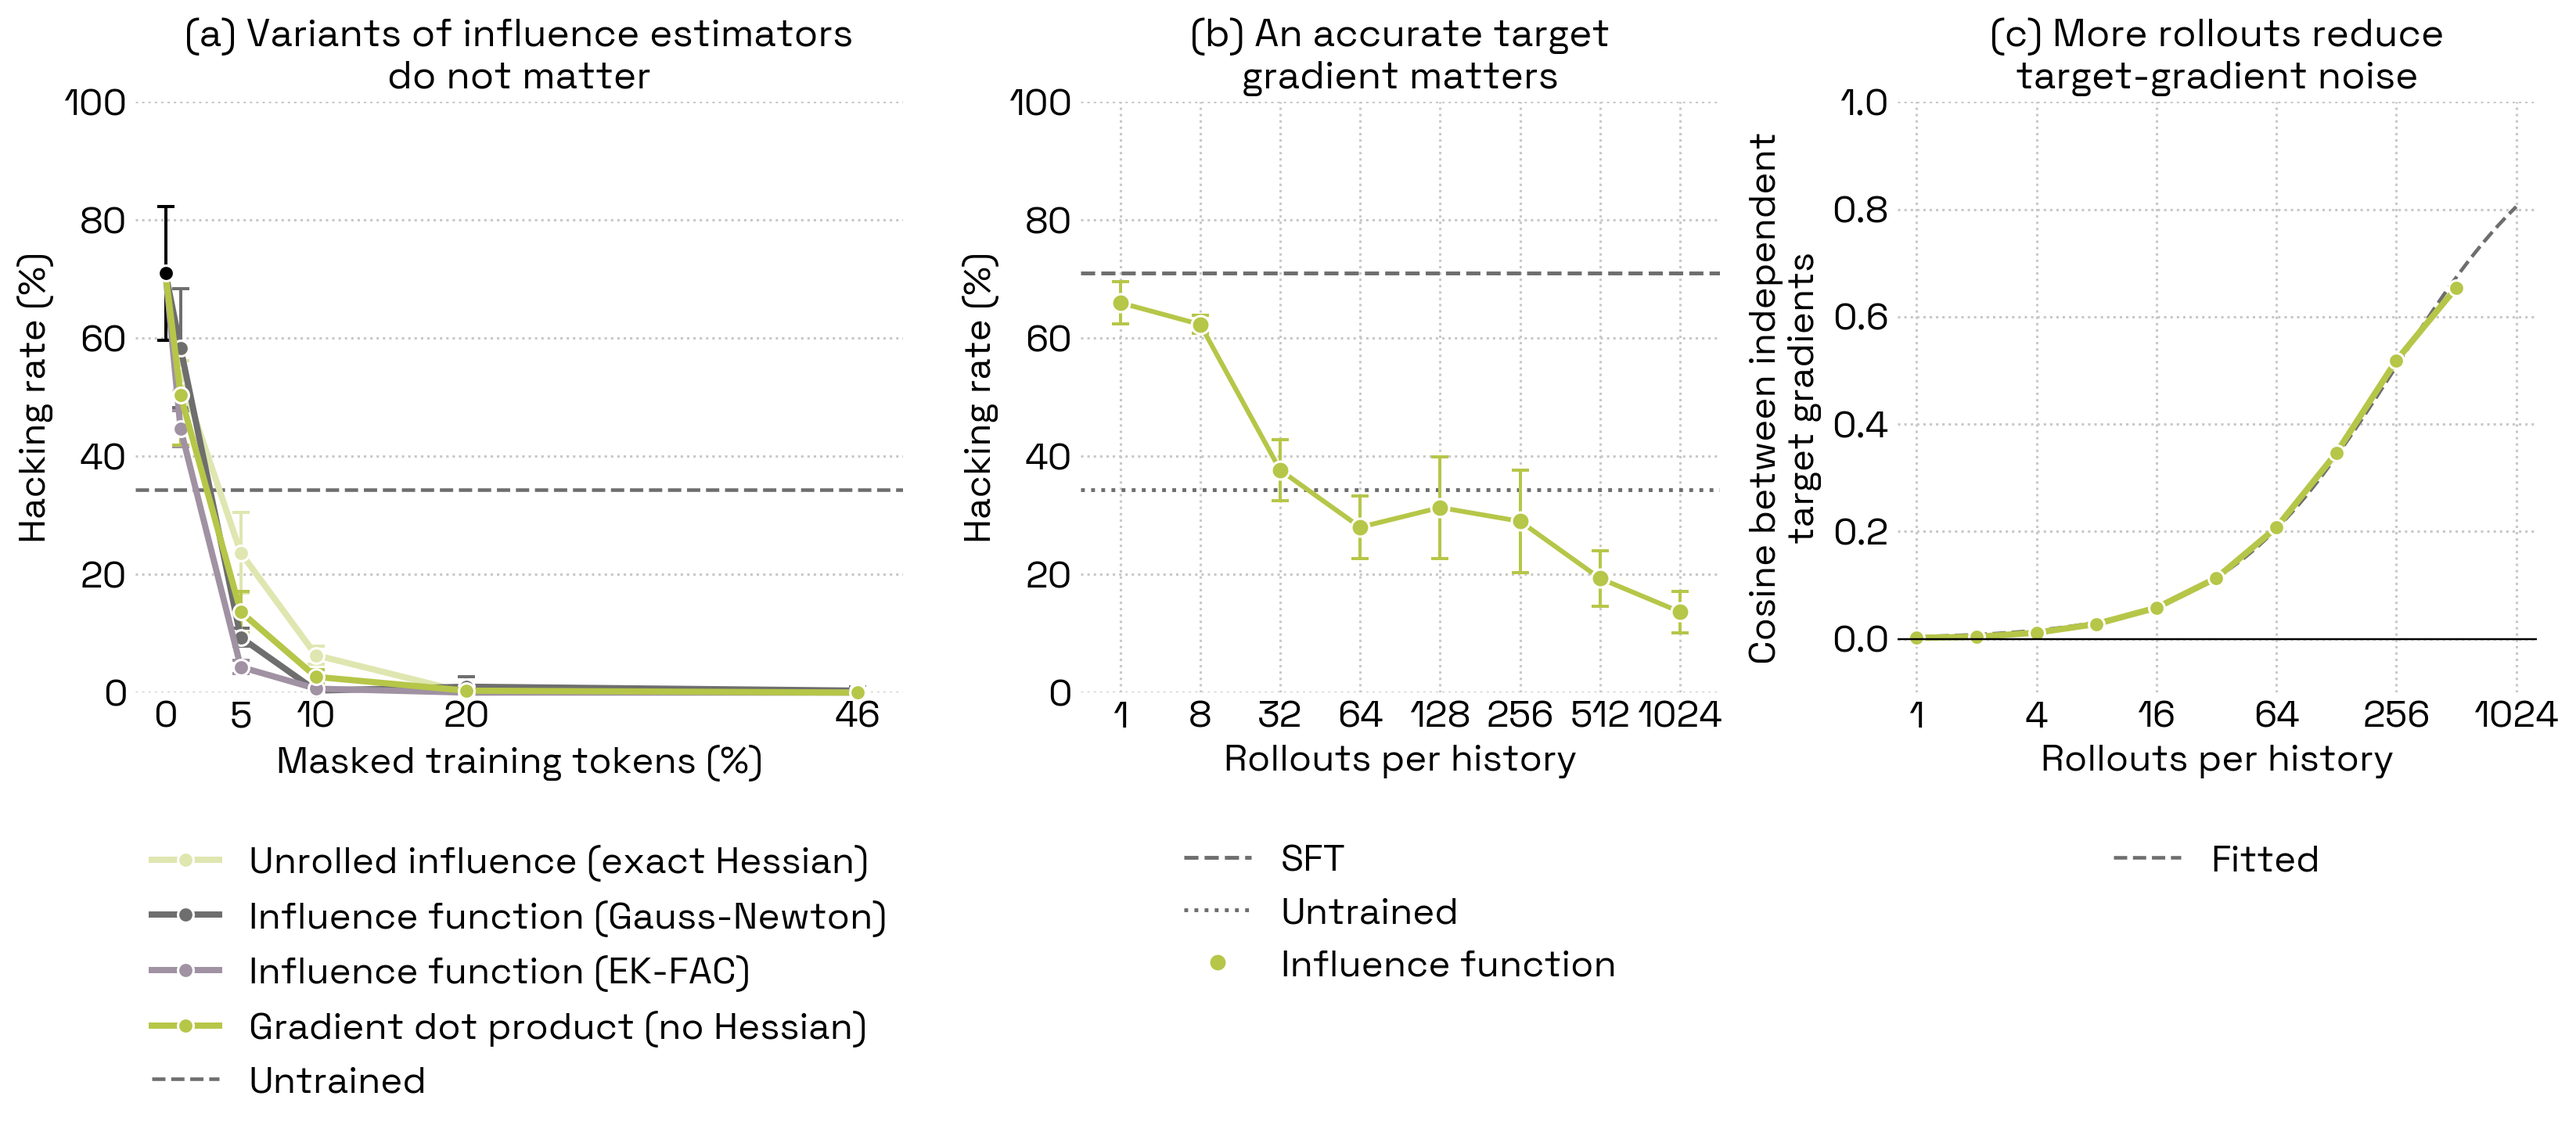
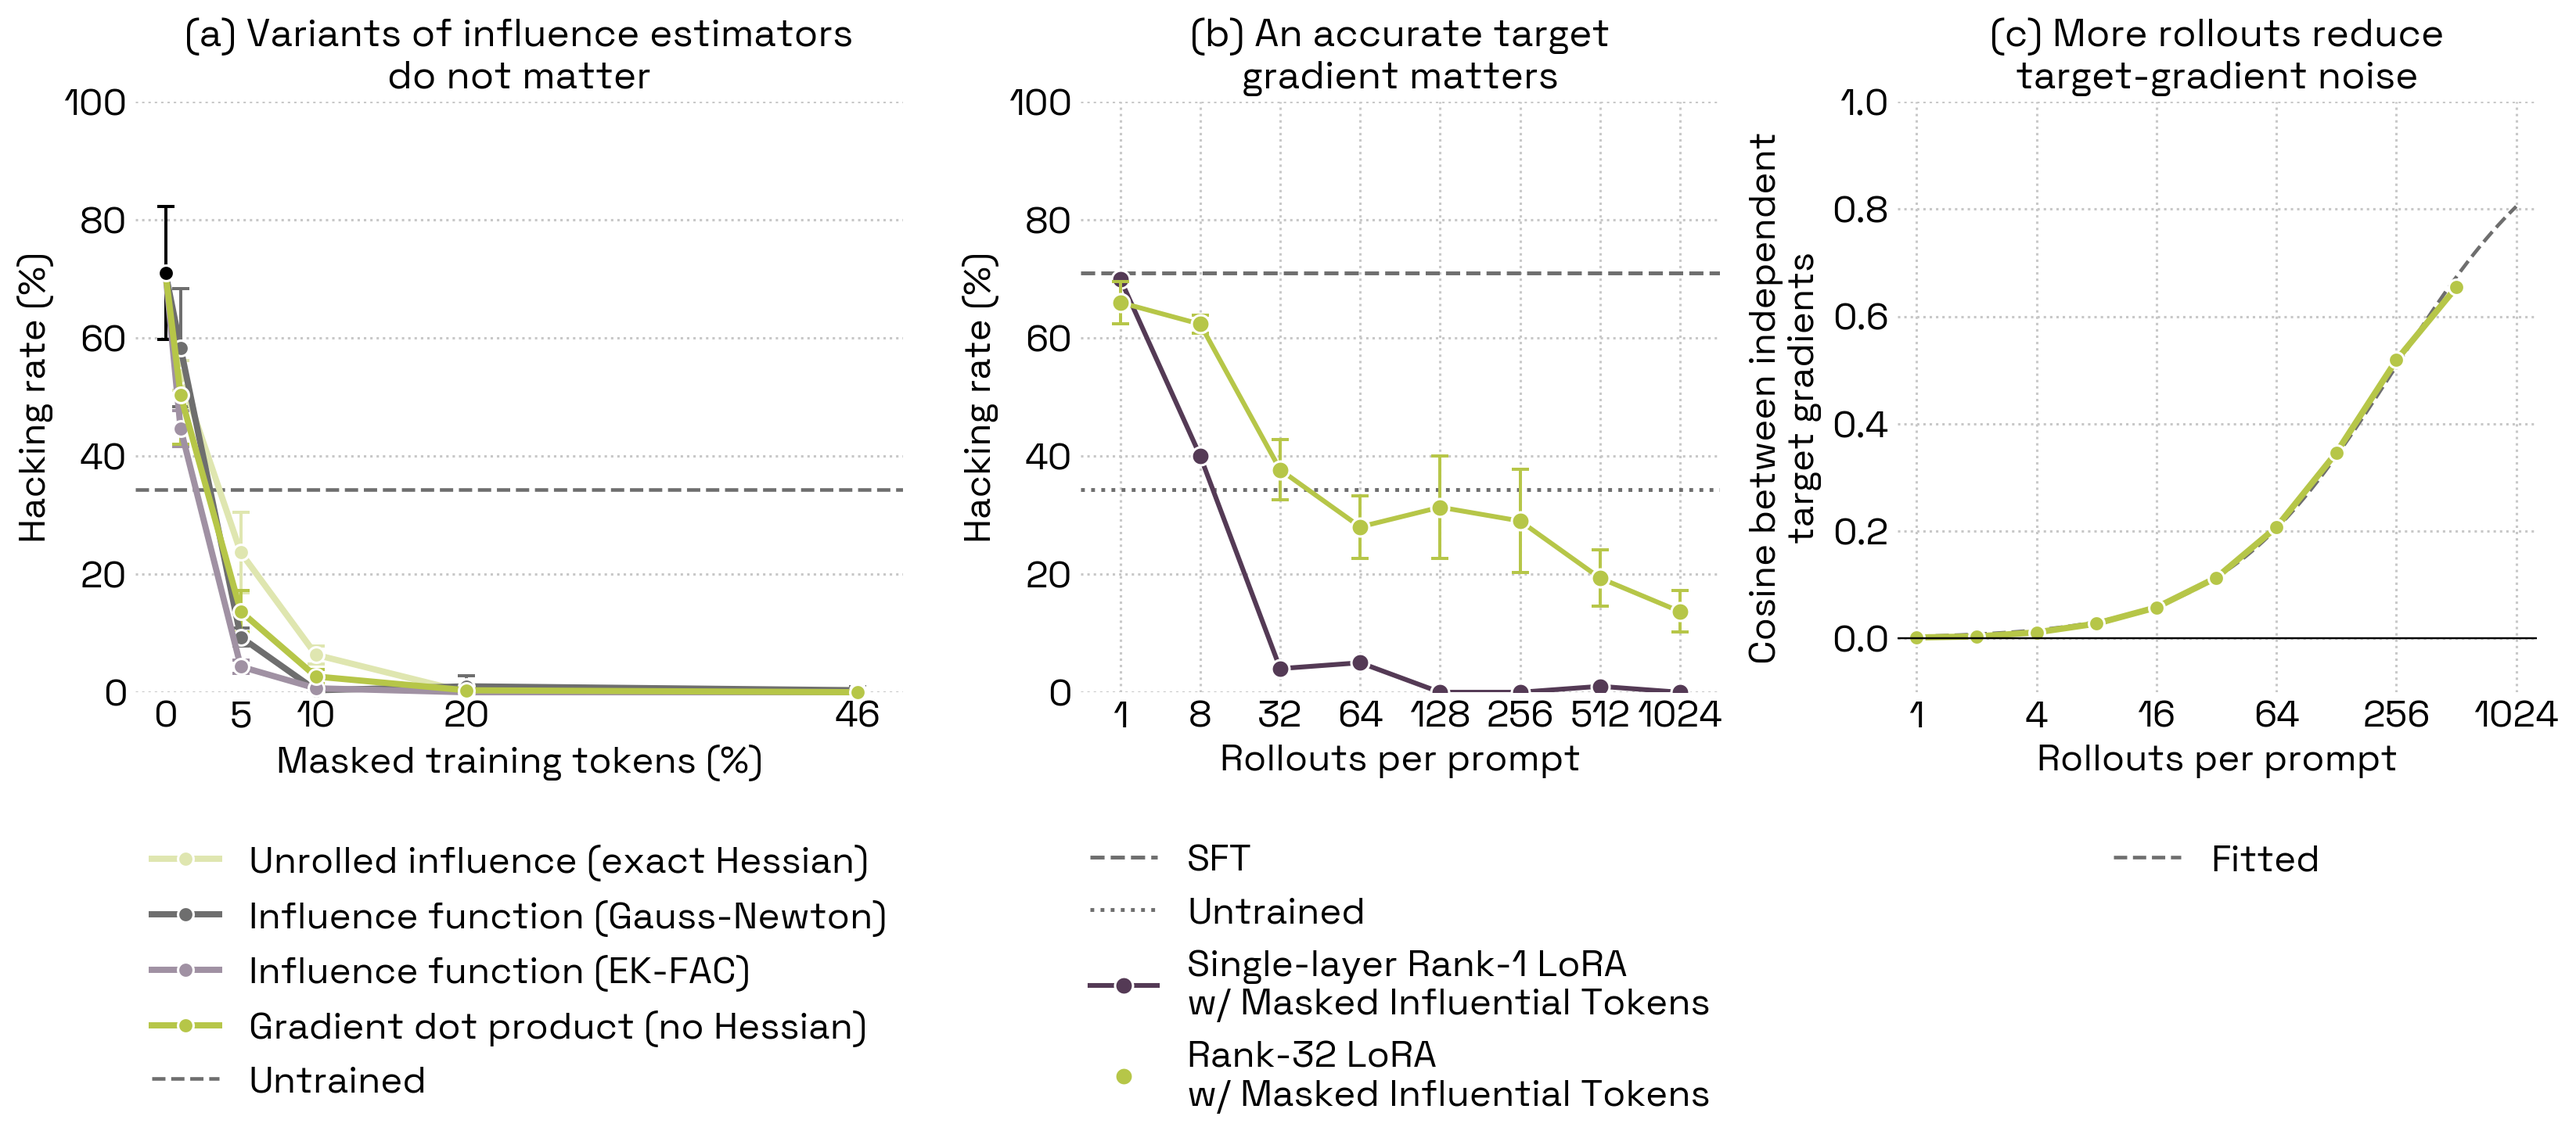
REINFORCE inputs called "prompts" throughout (Sec 3.2.2 text, Fig 5 caption + x-axes "Rollouts per prompt")
Claude-Session: https://claude.ai/code/session_01Sy8fwRxpLQFQVKtV2nPidq

diff --git a/blog/reward-hacking-propensity.html b/blog/reward-hacking-propensity.html
@@ -19871,9 +19871,9 @@ L 856.263017 277.763187
         <p>Influence functions are a classical gradient lens. At a high level, they ask: how does the gradient of a training token interact with the gradient of a target behavior or trait?</p>
         <p>Implementing influence functions has two key steps:</p>
         <ul>
-          <li><strong>Choose the target gradient</strong>: to estimate the gradient of the model&rsquo;s reward hacking propensity on OOD agentic coding tasks, we can sample many rollouts, use a monitor to label each as hacking or non-hacking, then estimate the target gradient with REINFORCE. Let \(r(\tau) \in \{0, 1\}\) be the monitor&rsquo;s label of rollout \(\tau\). Over \(M\) task contexts, the hacking rate is
+          <li><strong>Choose the target gradient</strong>: to estimate the gradient of the model&rsquo;s reward hacking propensity on OOD agentic coding tasks, we can sample many rollouts, use a monitor to label each as hacking or non-hacking, then estimate the target gradient with REINFORCE. Let \(r(\tau) \in \{0, 1\}\) be the monitor&rsquo;s label of rollout \(\tau\). Over \(M\) prompts, the hacking rate is
 $$p(\theta) = \frac{1}{M}\sum_{m=1}^{M} \mathbb{E}_{\tau \sim \pi_\theta(\cdot \mid x_m)}\big[r(\tau)\big].$$
-We sample \(k\) rollouts per context from the final checkpoint \(\theta_T\) and, as in <a href="https://arxiv.org/pdf/2402.03300">GRPO</a>, use the context&rsquo;s average hacking rate as the baseline:
+We sample \(k\) rollouts per prompt from the final checkpoint \(\theta_T\) and, as in <a href="https://arxiv.org/pdf/2402.03300">GRPO</a>, use the prompt&rsquo;s average hacking rate as the baseline:
 $$g = \frac{1}{M}\sum_{m=1}^{M} \frac{1}{k-1}\sum_{i=1}^{k} A_{m,i}\, \nabla_\theta \log \pi_{\theta_T}(\tau_{m,i} \mid x_m), \qquad A_{m,i} = r(\tau_{m,i}) - \frac{1}{k}\sum_{j=1}^{k} r(\tau_{m,j}).$$</li>
           <li><strong>Choose the influence estimator</strong>: options range from exact unrolled influence, which accounts for the Hessian at every training step, to the simplest Hessian-free gradient product.</li>
         </ul>
@@ -19913,7 +19913,7 @@ $$I_{\text{GDP}}(z) = -\,g^\top \nabla_\theta \ell_z(\theta_T).$$</li>
 
       <figure id="fig-4" class="fig-wide" style="max-width:864px">
         <img style="width:100%;max-width:864px;display:block;margin:0 auto" src="figures/rh/fig3_influence_readout.png" alt="What makes influence functions work">
-        <figcaption><span class="fig-label">Figure 5.</span> What makes influence functions work? (a) Cheating rate after masking each influence estimator’s top tokens. (b) Cheating rate against the number of rollouts used for the target gradient. (c) Cosine between independent target-gradient estimates against rollouts per history.</figcaption>
+        <figcaption><span class="fig-label">Figure 5.</span> What makes influence functions work? (a) Cheating rate after masking each influence estimator’s top tokens. (b) Cheating rate against the number of rollouts used for the target gradient. (c) Cosine between independent target-gradient estimates against rollouts per prompt.</figcaption>
       </figure>
 
       <div class="text">
